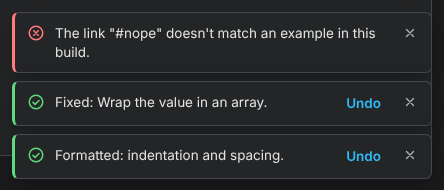
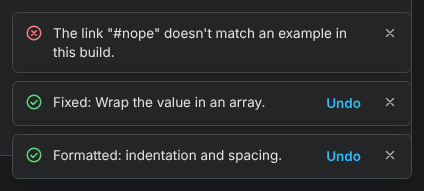
Toasts as a deck: the newest in front, older ones peeking out; fanned out on hover
The newest toast in front, up to two older ones behind it (10 px higher each, 5% smaller, their
text faded, out of the tab order). Hovering the stack or tabbing into it fans them out into a
list and pauses every timer; the stack's own box covers the gaps, so moving between toasts
doesn't fold it. Up to five kept. No motion with prefers-reduced-motion.

Claude-Session: https://claude.ai/code/session_0176z2bCvwUXMSQ8ZHn5TiTv

diff --git a/playground/src/toast.ts b/playground/src/toast.ts
@@ -1,5 +1,7 @@
-// Toasts: short notes that stack (newest at the bottom, at most three), close by themselves after
-// a few seconds (paused while hovered or focused) or with ×, and can carry one action (Undo).
+// Toasts, stacked like a deck: the newest in front, up to two older ones peeking out above it
+// (slightly smaller, their text faded). Hovering the stack, or moving the keyboard into it, fans
+// them out into a list and pauses every timer; leaving folds them back. Each closes by itself
+// after a few seconds, or with ×, and can carry one action (Undo).
 // The kind (info, success, warning, error) is guessed from the wording when it isn't given, so
 // every existing toast("…") call gets the right look.
 
@@ -11,7 +13,12 @@ export interface ToastOptions {
   duration?: number;
 }
 
-const MAX = 3;
+const MAX = 5; // kept; older ones are closed
+const PEEK = 2; // older toasts visible behind the newest one, folded
+const PEEK_OFFSET = 10; // px each one peeks out above the one in front
+const SCALE_STEP = 0.05;
+const GAP = 8; // px between toasts, fanned out
+
 const ICONS: Record<ToastKind, string> = {
   info: '<circle cx="12" cy="12" r="9"/><path d="M12 11v5M12 8h.01"/>',
   success: '<circle cx="12" cy="12" r="9"/><path d="m8 12.5 2.8 2.8L16 10"/>',
@@ -27,7 +34,16 @@ export function kindOf(text: string): ToastKind {
   return 'info';
 }
 
+interface Entry {
+  el: HTMLElement;
+  height: number; // its own height, unfolded
+  pause(): void;
+  resume(): void;
+}
+const entries: Entry[] = []; // oldest first
 let host: HTMLElement | null = null;
+let expanded = false;
+
 function container(): HTMLElement {
   if (host && document.body.contains(host)) return host;
   host = document.createElement('div');
@@ -35,35 +51,87 @@ function container(): HTMLElement {
   host.setAttribute('role', 'region');
   host.setAttribute('aria-label', 'Notifications');
   host.setAttribute('aria-live', 'polite'); // exists from the start, so the first toast is announced too
+  // Fanned out while the pointer or the keyboard is on the stack (the stack's own box covers the
+  // gaps between toasts, so moving from one to the next doesn't fold them).
+  const setExpanded = (v: boolean) => {
+    if (expanded === v) return;
+    expanded = v;
+    for (const e of entries) v ? e.pause() : e.resume();
+    layout();
+  };
+  host.addEventListener('mouseenter', () => setExpanded(true));
+  host.addEventListener('mouseleave', () => setExpanded(host!.contains(document.activeElement)));
+  host.addEventListener('focusin', () => setExpanded(true));
+  host.addEventListener('focusout', (e) => {
+    if (!host!.contains(e.relatedTarget as Node | null) && !host!.matches(':hover')) setExpanded(false);
+  });
   document.body.appendChild(host);
   return host;
 }
 
 const reduced = () => window.matchMedia?.('(prefers-reduced-motion: reduce)').matches;
 
-function remove(el: HTMLElement) {
-  if (el.dataset.leaving) return;
-  el.dataset.leaving = '1';
-  if (reduced()) return el.remove();
+/** Places every toast: folded into a deck, or fanned out into a list (newest at the bottom). */
+function layout() {
+  if (!host) return;
+  host.classList.toggle('expanded', expanded);
+  const front = entries[entries.length - 1];
+  let offset = 0;
+  for (let k = 0; k < entries.length; k++) {
+    const { el, height } = entries[entries.length - 1 - k]; // k = 0: the newest
+    el.style.zIndex = String(100 - k);
+    if (expanded) {
+      el.style.height = `${height}px`;
+      el.style.transform = `translateY(${-offset}px)`;
+      el.style.opacity = '1';
+      el.classList.remove('behind');
+      offset += height + GAP;
+    } else {
+      // Behind the front one: as tall as it, a little higher and smaller, contents faded.
+      el.style.height = `${k === 0 ? height : front.height}px`;
+      el.style.transform = `translateY(${-k * PEEK_OFFSET}px) scale(${1 - k * SCALE_STEP})`;
+      el.style.opacity = k <= PEEK ? '1' : '0';
+      el.classList.toggle('behind', k > 0);
+    }
+    el.inert = !expanded && k > 0; // folded away: not reachable by keyboard or screen reader
+  }
+  const h = entries.length ? (expanded ? offset - GAP : front.height + Math.min(PEEK, entries.length - 1) * PEEK_OFFSET) : 0;
+  host.style.height = `${h}px`;
+}
+
+function remove(entry: Entry) {
+  const i = entries.indexOf(entry);
+  if (i < 0) return;
+  entries.splice(i, 1);
+  const el = entry.el;
+  el.inert = true;
   el.classList.add('leaving');
-  el.addEventListener('animationend', () => el.remove(), { once: true });
-  setTimeout(() => el.remove(), 400); // in case the animation doesn't run
+  el.style.opacity = '0';
+  el.style.transform += ' translateX(24px)';
+  if (!entries.length) {
+    expanded = false; // the last one closed: next time the stack starts folded
+  }
+  layout();
+  setTimeout(() => el.remove(), reduced() ? 0 : 250);
 }
 
 export function toast(text: string, opts: ToastOptions = {}): void {
   const kind = opts.kind ?? kindOf(text);
   const box = container();
-  // The same message again: show the one that's there afresh instead of stacking a copy.
-  const same = [...box.querySelectorAll<HTMLElement>('.toast:not(.leaving)')].find((t) => t.dataset.text === text);
+  // The same message again: the one that's there comes to the front afresh instead of a copy.
+  const same = entries.find((e) => e.el.dataset.text === text);
   if (same) {
-    same.remove();
+    entries.splice(entries.indexOf(same), 1);
+    same.el.remove();
   }
   const el = document.createElement('div');
-  el.className = `toast ${kind}`;
+  el.className = `toast ${kind} entering`;
   el.dataset.text = text;
   if (kind === 'error') el.setAttribute('role', 'alert');
-  el.innerHTML = `<svg class="toast-icon" viewBox="0 0 24 24" aria-hidden="true">${ICONS[kind]}</svg><div class="toast-text"></div>`;
+  el.innerHTML = `<div class="toast-inner"><svg class="toast-icon" viewBox="0 0 24 24" aria-hidden="true">${ICONS[kind]}</svg><div class="toast-text"></div></div>`;
+  const inner = el.firstElementChild as HTMLElement;
   (el.querySelector('.toast-text') as HTMLElement).textContent = text;
+  let entry: Entry;
   if (opts.action) {
     const b = document.createElement('button');
     b.type = 'button';
@@ -72,9 +140,9 @@ export function toast(text: string, opts: ToastOptions = {}): void {
     const run = opts.action.run;
     b.addEventListener('click', () => {
       run();
-      remove(el);
+      remove(entry);
     });
-    el.appendChild(b);
+    inner.appendChild(b);
   }
   const close = document.createElement('button');
   close.type = 'button';
@@ -82,38 +150,47 @@ export function toast(text: string, opts: ToastOptions = {}): void {
   close.setAttribute('aria-label', 'Dismiss');
   close.title = 'Dismiss';
   close.innerHTML = '<svg viewBox="0 0 24 24" aria-hidden="true"><path d="M6 6l12 12M18 6 6 18"/></svg>';
-  close.addEventListener('click', () => remove(el));
-  el.appendChild(close);
+  close.addEventListener('click', () => remove(entry));
+  inner.appendChild(close);
   box.appendChild(el);
 
-  // Older ones make room: at most MAX at a time.
-  const live = [...box.querySelectorAll<HTMLElement>('.toast:not(.leaving)')];
-  for (const old of live.slice(0, Math.max(0, live.length - MAX))) remove(old);
-
-  // Closes by itself, unless the pointer or the keyboard is on it.
+  // Closes by itself after a while; the clock stops while the stack is fanned out.
   const ms = opts.duration ?? (kind === 'error' ? 8000 : opts.action ? 7000 : Math.min(8000, 3500 + text.length * 25));
   let left = ms;
   let started = Date.now();
-  let timer = window.setTimeout(() => remove(el), left);
-  const pause = () => {
-    clearTimeout(timer);
-    left -= Date.now() - started;
-  };
-  const resume = () => {
+  let timer = 0;
+  const start = () => {
     started = Date.now();
     clearTimeout(timer);
-    timer = window.setTimeout(() => remove(el), Math.max(1200, left));
+    timer = window.setTimeout(() => remove(entry), Math.max(1200, left));
   };
-  el.addEventListener('mouseenter', pause);
-  el.addEventListener('mouseleave', resume);
-  el.addEventListener('focusin', pause);
-  el.addEventListener('focusout', resume);
+  entry = {
+    el,
+    height: el.offsetHeight,
+    pause: () => {
+      clearTimeout(timer);
+      left -= Date.now() - started;
+    },
+    resume: start,
+  };
+  entries.push(entry);
+  if (expanded) entry.pause();
+  else start();
   el.addEventListener('keydown', (e) => {
     if (e.key === 'Escape') {
       e.stopPropagation();
-      remove(el);
+      remove(entry);
     }
   });
+
+  // Older ones make room: at most MAX at a time.
+  while (entries.length > MAX) remove(entries[0]);
+  // In from below, then into place.
+  el.style.transform = 'translateY(100%)';
+  el.style.opacity = '0';
+  void el.offsetHeight;
+  el.classList.remove('entering');
+  layout();
 }
 
 /** Creates the (empty) live region early: screen readers only announce changes to one they know. */
@@ -121,7 +198,11 @@ export function initToasts() {
   container();
 }
 
-/** Closes every toast (e.g. before a screenshot). */
+/** Closes every toast at once (e.g. before a screenshot). */
 export function clearToasts() {
-  host?.querySelectorAll<HTMLElement>('.toast').forEach((t) => t.remove());
+  for (const e of [...entries]) {
+    entries.splice(entries.indexOf(e), 1);
+    e.el.remove();
+  }
+  layout();
 }

diff --git a/playground/src/page.html b/playground/src/page.html
@@ -506,22 +506,24 @@ kbd { font: 11px var(--font-mono); border: 1px solid var(--line); border-bottom-
 #welcome .w-steps { display: flex; flex-wrap: wrap; gap: 4px 16px; margin-top: 6px; }
 #welcome .w-steps b { display: inline-grid; place-items: center; width: 18px; height: 18px; border-radius: 50%; background: var(--surface-2); color: var(--muted); font-size: 11px; margin-right: 2px; }
 .banner-actions { display: flex; flex-wrap: wrap; gap: 8px; margin-top: 10px; }
-/* Toasts (src/toast.ts): a stack at the bottom right (above the bottom bar on phones). */
-#toasts { position: fixed; right: 16px; bottom: calc(16px + env(safe-area-inset-bottom, 0px)); z-index: 90; display: flex; flex-direction: column; align-items: flex-end; gap: 8px; width: min(420px, calc(100vw - 32px)); pointer-events: none; }
-.toast { pointer-events: auto; width: 100%; box-sizing: border-box; display: flex; align-items: flex-start; gap: 10px; padding: 10px 8px 10px 12px; background: var(--surface); color: var(--fg); border: 1px solid var(--line); border-left: 3px solid var(--tk); border-radius: var(--r-pane); box-shadow: 0 10px 30px rgba(0,0,0,.22), 0 2px 6px rgba(0,0,0,.12); font-size: 13.5px; line-height: 1.4; animation: toast-in .18s ease-out; }
+/* Toasts (src/toast.ts): a deck at the bottom right (above the bottom bar on phones). JS places
+   each toast (transform, height) and the deck's own height; hovering fans it out. */
+#toasts { position: fixed; right: 16px; bottom: calc(16px + env(safe-area-inset-bottom, 0px)); z-index: 90; width: min(400px, calc(100vw - 32px)); height: 0; pointer-events: none; transition: height .35s cubic-bezier(.21,1.02,.73,1); }
+#toasts.expanded { pointer-events: auto; } /* the gaps between fanned-out toasts keep it open */
+.toast { position: absolute; left: 0; right: 0; bottom: 0; box-sizing: border-box; overflow: hidden; pointer-events: auto; transform-origin: center top; background: var(--surface); color: var(--fg); border: 1px solid var(--line); border-radius: var(--r-pane); box-shadow: 0 8px 24px rgba(0,0,0,.18), 0 1px 3px rgba(0,0,0,.1); font-size: 13.5px; line-height: 1.4; transition: transform .4s cubic-bezier(.21,1.02,.73,1), opacity .3s ease, height .35s cubic-bezier(.21,1.02,.73,1); }
+.toast.entering { transition: none; }
+.toast-inner { display: flex; align-items: flex-start; gap: 10px; padding: 10px 8px 10px 12px; transition: opacity .2s ease; }
+.toast.behind .toast-inner { opacity: 0; }
 .toast.info { --tk: var(--info); } .toast.success { --tk: var(--ok); } .toast.warning { --tk: var(--warn); } .toast.error { --tk: var(--err); }
 .toast-icon { flex: none; width: 18px; height: 18px; margin-top: 1px; fill: none; stroke: var(--tk); stroke-width: 2; stroke-linecap: round; stroke-linejoin: round; }
 .toast-text { flex: 1; min-width: 0; overflow-wrap: anywhere; padding-top: 1px; }
 .toast-action { flex: none; font: inherit; font-weight: 600; color: var(--accent); background: none; border: 0; padding: 2px 6px; border-radius: var(--r-ctl); cursor: pointer; }
 .toast-action:hover { background: var(--surface-2); }
-.toast-close { flex: none; display: grid; place-items: center; width: 26px; height: 26px; margin: -3px 0 -3px 0; padding: 0; background: none; border: 0; border-radius: var(--r-ctl); color: var(--muted); cursor: pointer; }
+.toast-close { flex: none; display: grid; place-items: center; width: 26px; height: 26px; margin: -3px 0; padding: 0; background: none; border: 0; border-radius: var(--r-ctl); color: var(--muted); cursor: pointer; }
 .toast-close:hover { background: var(--surface-2); color: var(--fg); }
 .toast-close svg { width: 14px; height: 14px; fill: none; stroke: currentColor; stroke-width: 2.2; stroke-linecap: round; }
 .toast-action:focus-visible, .toast-close:focus-visible { outline: 2px solid var(--accent); outline-offset: 1px; }
-.toast.leaving { animation: toast-out .16s ease-in forwards; }
-@keyframes toast-in { from { opacity: 0; transform: translateY(8px) scale(.98); } to { opacity: 1; transform: none; } }
-@keyframes toast-out { to { opacity: 0; transform: translateX(16px); } }
-@media (prefers-reduced-motion: reduce) { .toast, .toast.leaving { animation: none; } }
+@media (prefers-reduced-motion: reduce) { #toasts, .toast, .toast-inner { transition: none; } }
 #open-dialog { width: min(860px, calc(100vw - 24px)); max-height: min(80vh, 760px); padding: 0; display: none; flex-direction: column; overflow: hidden; }
 #open-dialog[open] { display: flex; }
 .open-head { display: flex; gap: 8px; padding: 12px; border-bottom: 1px solid var(--line); }
@@ -694,7 +696,7 @@ kbd { font: 11px var(--font-mono); border: 1px solid var(--line); border-bottom-
   .set-sec .link { padding: 6px 0; font-size: 14px; }
   #settings-dialog .actions { position: sticky; bottom: 0; margin: 4px -16px 0; padding: 10px 16px calc(10px + env(safe-area-inset-bottom, 0px)); background: var(--surface); border-top: 1px solid var(--line); }
   .entries { grid-template-columns: minmax(0, 1fr); }
-  #toasts { bottom: calc(70px + env(safe-area-inset-bottom, 0px)); left: 16px; right: 16px; width: auto; align-items: stretch; }
+  #toasts { bottom: calc(70px + env(safe-area-inset-bottom, 0px)); left: 16px; right: 16px; width: auto; }
 }
 @media (pointer: coarse) {
   .btn, select, .filter, .fix, .mode button, [role=tab], .loc { min-height: 40px; }

diff --git a/CHANGELOG.md b/CHANGELOG.md
@@ -17,10 +17,10 @@ How to write it (people and AI agents read this, and the workbench shows it):
 ### 🛠 Improved
 
 - **Numbered releases in What's new.** Each release shows its number, with a link to its notes on GitHub, and screenshots open only when you click Screenshot.
-- **Toasts that stack and close.** Notes such as "Fixed" or "Link copied" stack at the bottom right (above the bottom bar on phones), show whether they're good news or a problem, close with ×, and stay while you hover them. "Fixed" and "Formatted" ones have an Undo button.
+- **Toasts in a stack.** Notes such as "Fixed" or "Link copied" pile up at the bottom right (above the bottom bar on phones): the newest in front, older ones peeking out behind it. Hover the stack to fan it out (it waits while you read), close one with ×, and use Undo on "Fixed" and "Formatted". Each shows whether it's good news or a problem.
   <details><summary>Screenshot</summary>
 
-  ![Three toasts stacked: a link that matches nothing, a fix with Undo, and Formatted with Undo](docs/images/changelog/toasts-light.png)
+  ![Three toasts fanned out while the pointer is on the stack: a link that matches nothing, a fix with Undo, and Formatted with Undo](docs/images/changelog/toasts-light.png)
 
   </details>
 
